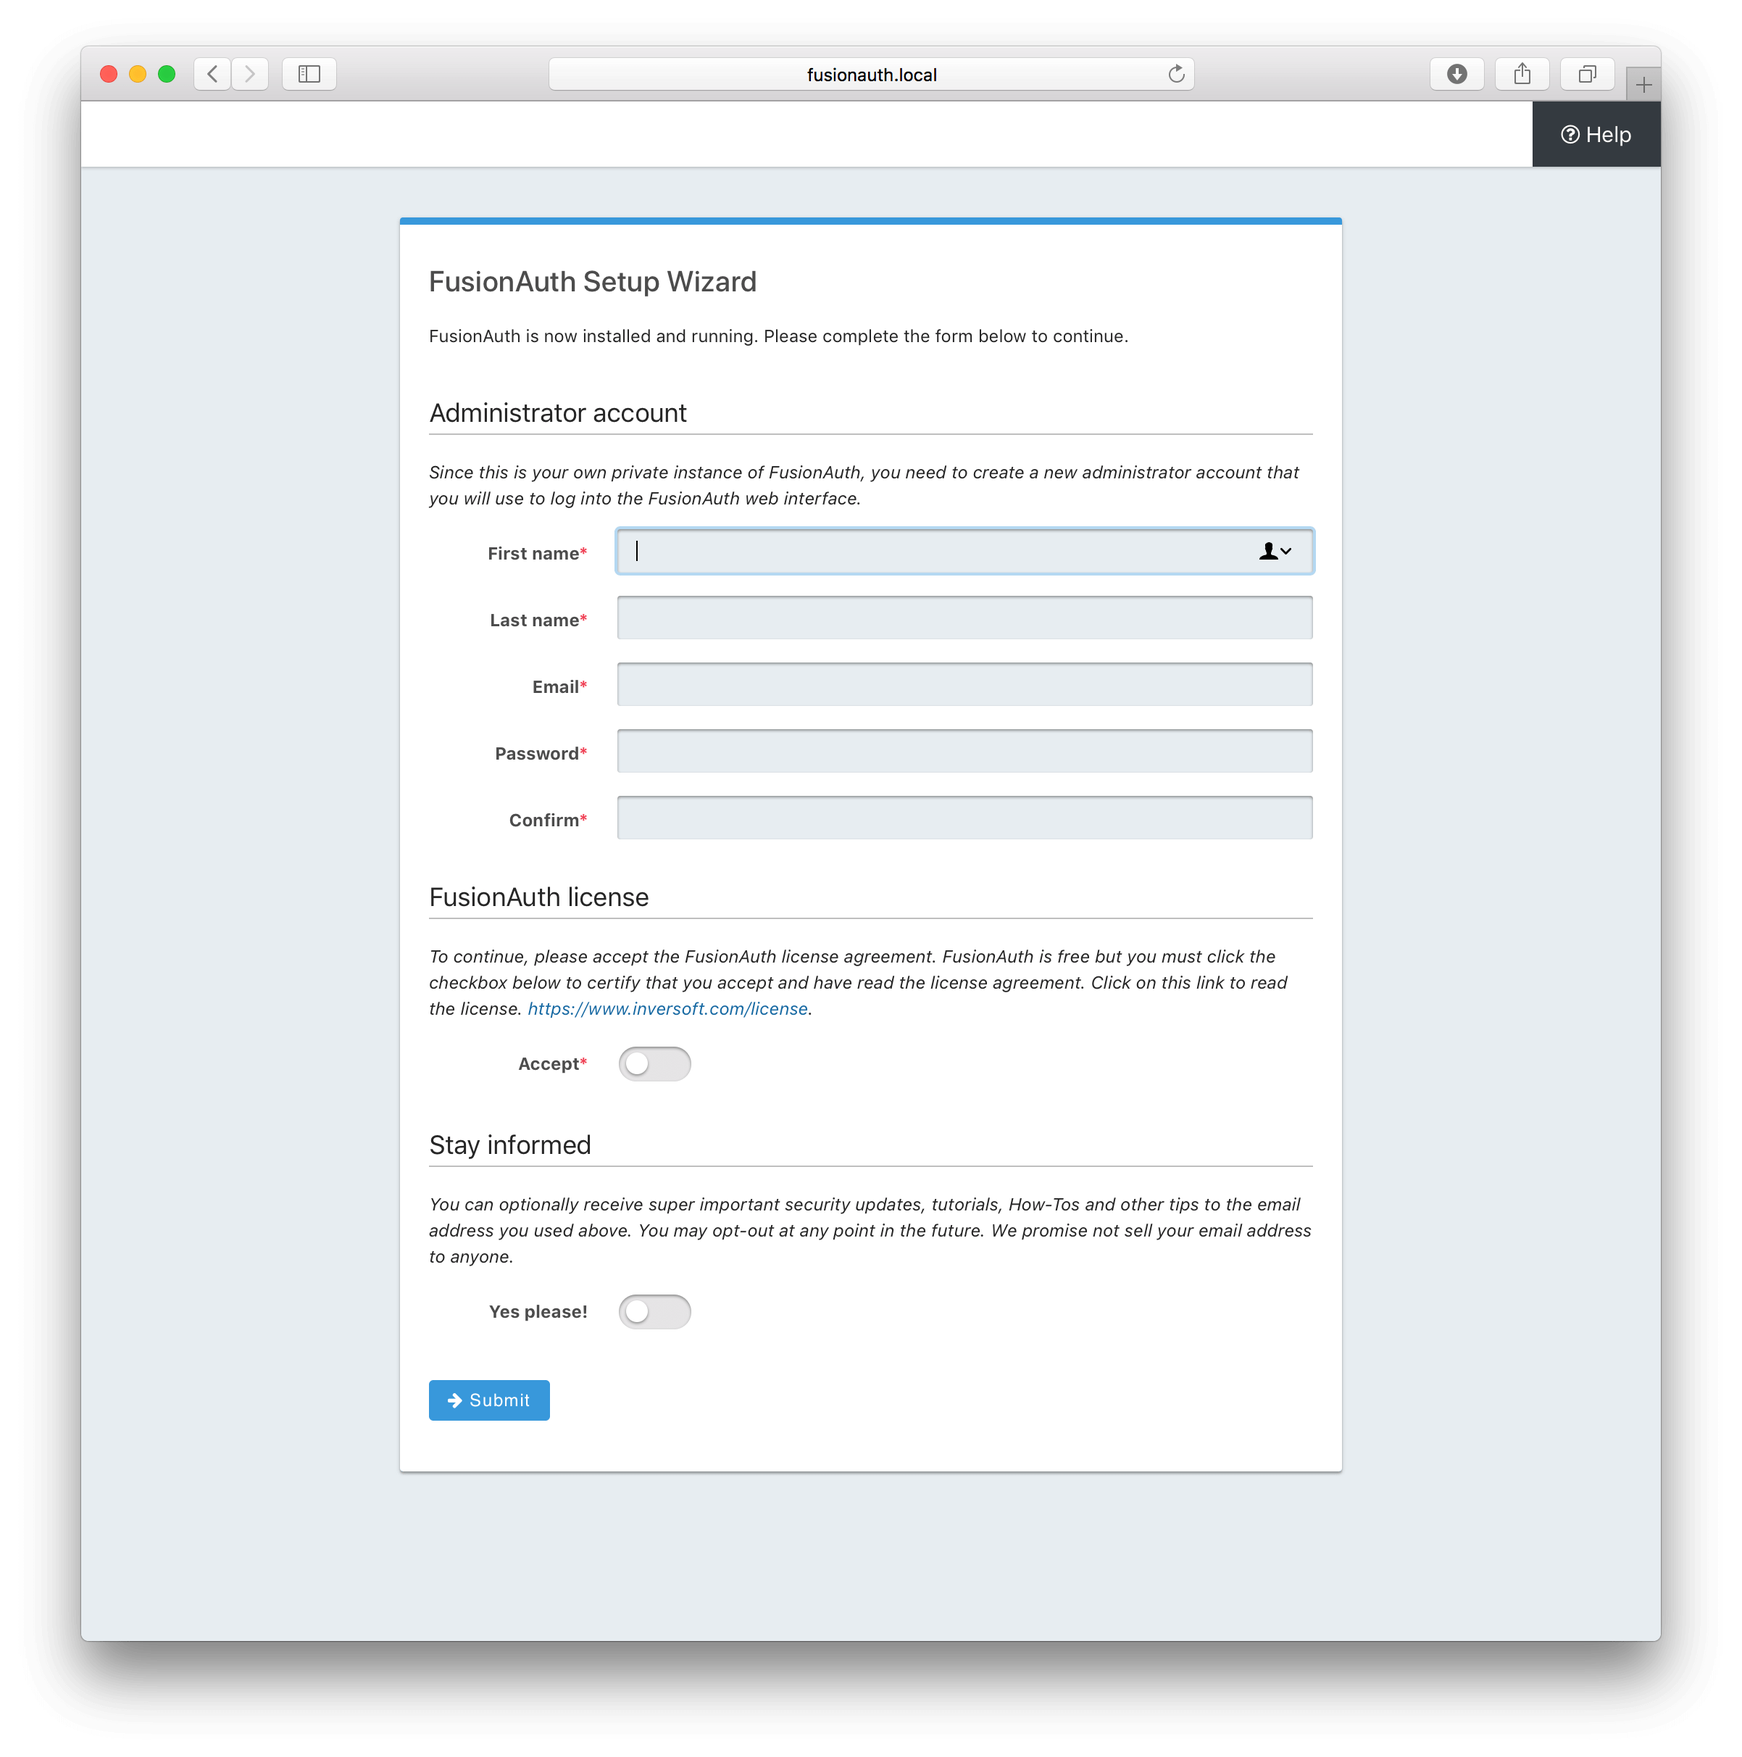
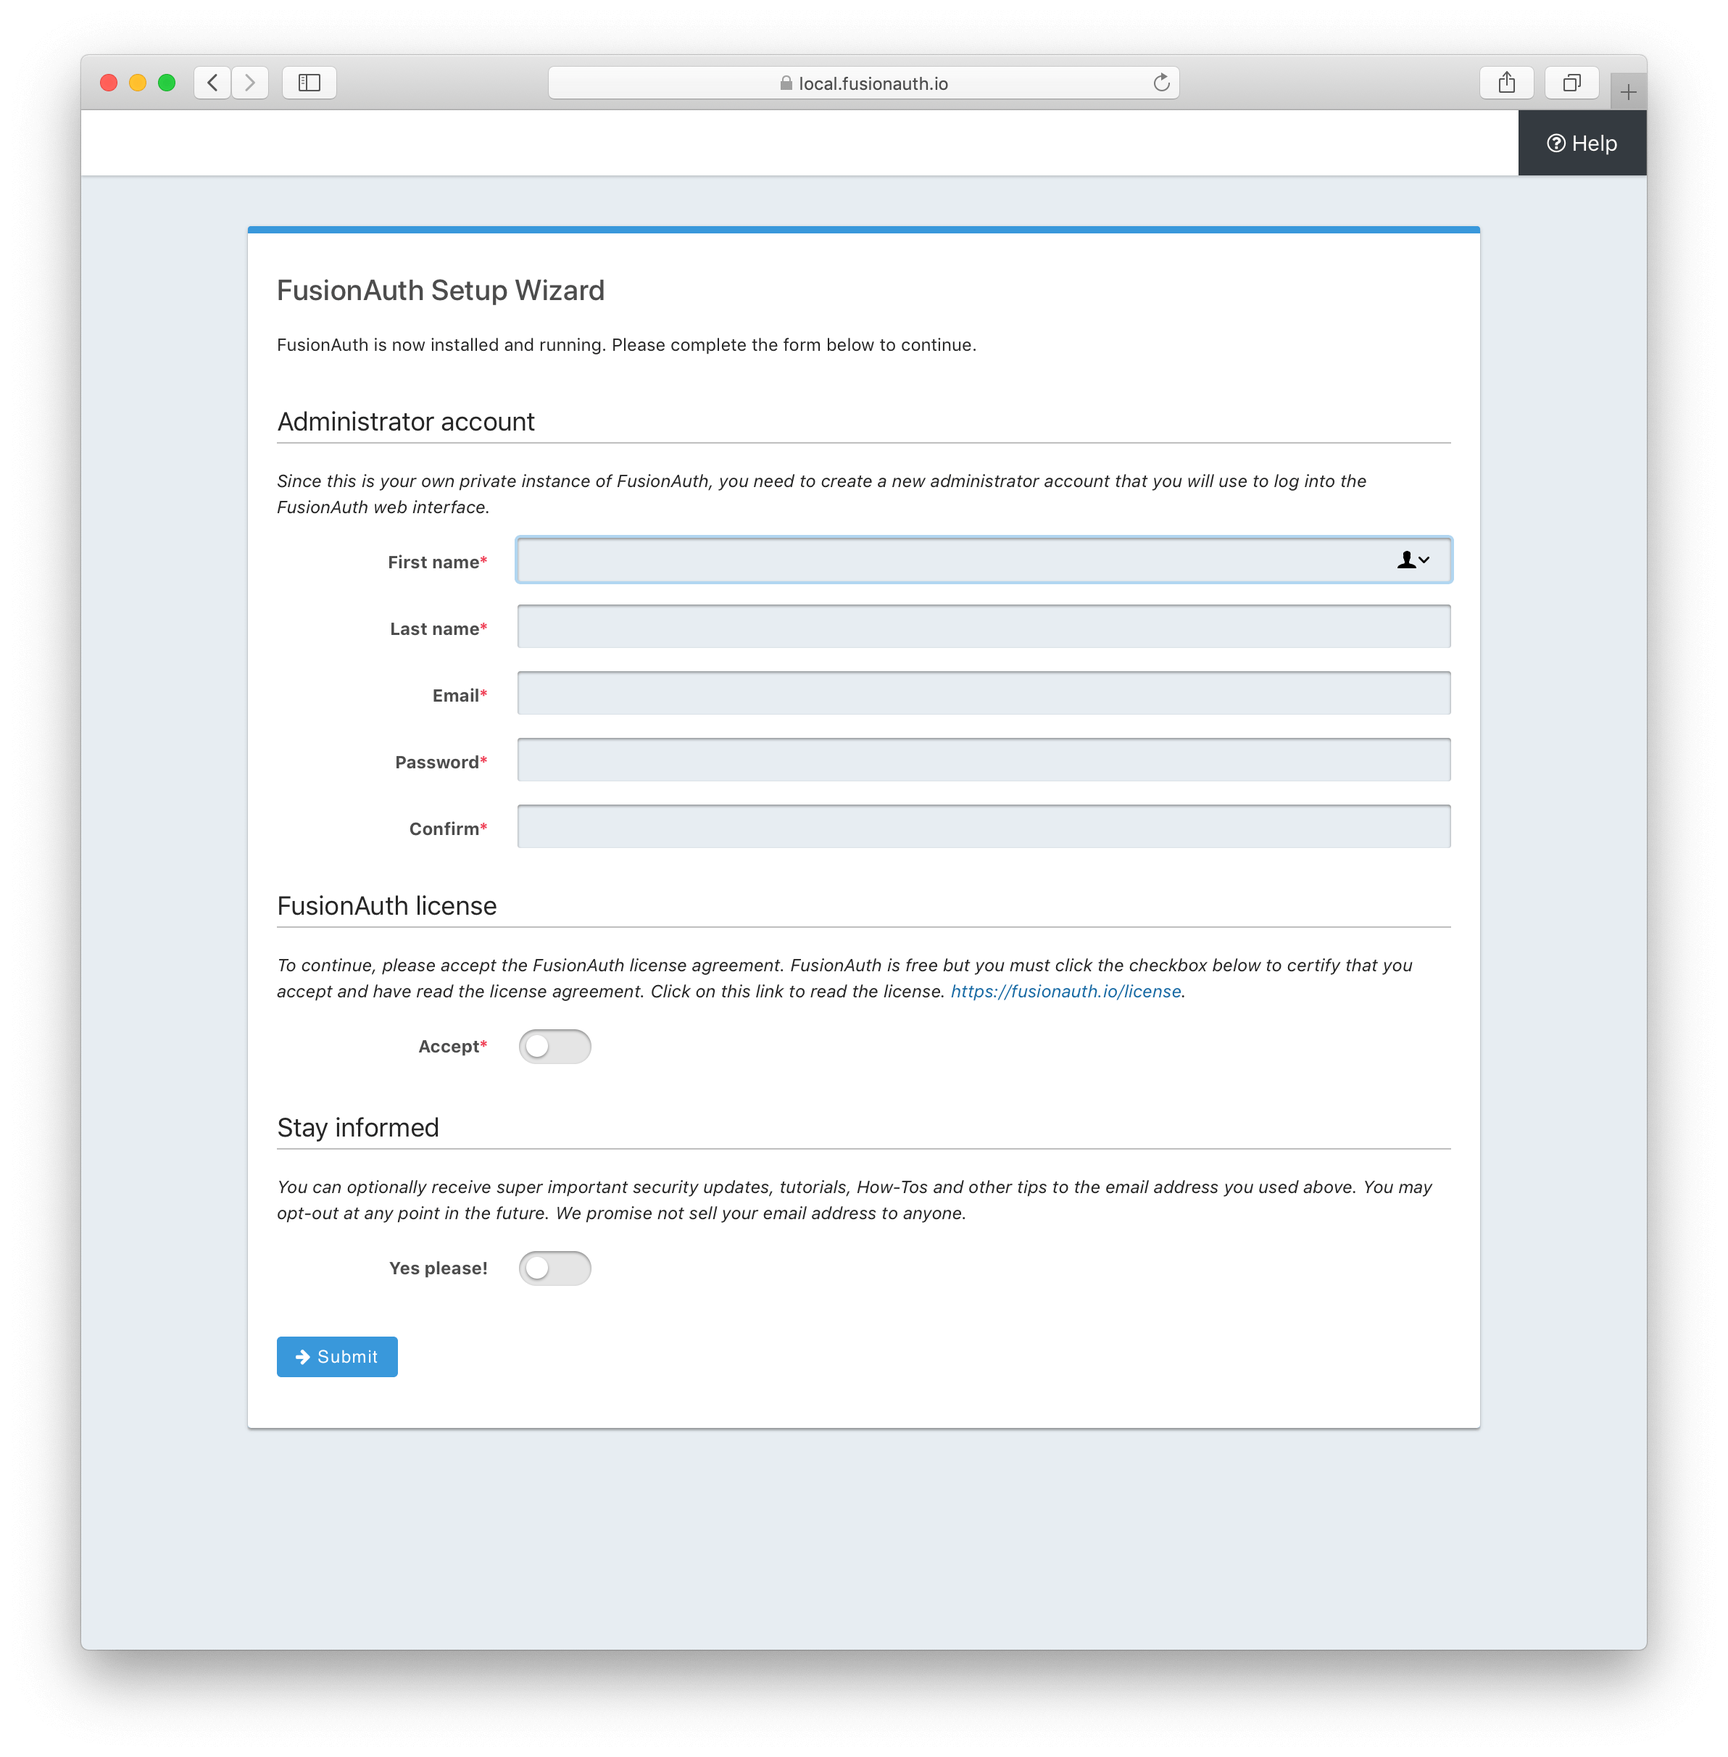
Update using-the-setup-wizard.md with screenshots and prepping for publish

diff --git a/assets/css/site-local.scss b/assets/css/site-local.scss
@@ -61,6 +61,10 @@ blockquote {
 }
 
 .blog-post .post-body-content {
+  img.full {
+    max-width: inherit;
+  }
+
   ol, ul {
     margin-bottom: 30px;
   }

diff --git a/_drafts/using-the-setup-wizard.md b/_drafts/using-the-setup-wizard.md
@@ -10,7 +10,7 @@ tags:
 - FusionAuth
 - tutorial
 - video
-image: blogs/NEEDIMAGE
+image: blogs/setup-wizard-create-admin.png
 ---
 The FusionAuth Setup Wizard is designed to make setting up FusionAuth a simple process so you can get back to working on the core features of your application. The step-by-step process only takes a few minutes to prepare FusionAuth to integrate with your application. The basic steps are:
 - Creating the initial admin user
@@ -20,45 +20,53 @@ The FusionAuth Setup Wizard is designed to make setting up FusionAuth a simple p
 
 Once these are complete, you are able to call the API and start managing users.
 <!--more-->
-To use the FusionAuth Setup Wizard, you will need to access the FusionAuth backend. If FusionAuth is hosting your instance in our private cloud, the URL will be located on your [FusionAuth Account](/account "Account page") labeled **Web Interface**. If you have installed FusionAuth on your own system, you will need to know the IP address or hostname where it has been installed. For example, to access FusionAuth on localhost, you would use the following URL **http://localhost:9011**.
+To use the FusionAuth Setup Wizard, you will need to access the FusionAuth backend. If FusionAuth is hosting your instance in our private cloud, the URL will been provided to you already. If you have installed FusionAuth on your own system, you will need to know the IP address or hostname where it has been installed. For example, to access FusionAuth on localhost, you would use the following URL `http://localhost:9011`.
 
 ## The FusionAuth Setup Wizard: Create an Admin User
 
-On the FusionAuth Setup Wizard first screen, you will be prompted to create the first admin user for the FusionAuth Application. If needed, you can add more admin users to other applications later.
+In order to complete the FusionAuth Setup Wizard, you will be prompted to create the first admin user for the FusionAuth Application. If needed, you can add additional admin users at a later time.
 
-**NEED IMAGE The FusionAuth Setup Wizard - Admin Account**
+If you instead are being prompted by the FusionAuth Maintenance Mode, please complete that setup first and then return to this step. See the Maintenance Mode section in the [FusionAuth App Installation Guide](/docs/v1/tech/installation-guide/fusionauth-app/).
 
-The fields that are required are marked with a red asterisk. Type in an email and password that will be used to log in to the FusionAuth management interface. The password must be at least 8 characters in length to pass validation. The selected time zone will be used to display date and times in your local time and may be selected each time you log into FusionAuth. Click the Submit button when you have completed the form.  When complete, you will return to the Dashboard and will see the three remaining items to be configured.
+{% include _image.html src="/assets/img/blogs/setup-wizard-create-admin.png" alt="Create Admin User" class="full" figure=false %}
 
-## Create an Application
+The fields that are required are marked with a red asterisk. Type in an email and password that will be used to log into the FusionAuth management interface. The password must be at least 8 characters in length to pass validation. Before you click the Submit button you must accept the FusionAuth license, do so by clicking on the toggle .  You may optionally opt-in to receive FusionAuth technical announcements. Click submit to complete this form and you will be logged into FusionAuth and be shown the Dashboard which will contain the three remaining items to be configured.
 
-The next step is to create an application. Select the blue Setup button to begin your first application and proceed to the Add Application form.
+{% include _image.html src="/assets/img/blogs/setup-complete-dashboard.png" alt="Complete Setup Dashboard" class="full" figure=false %}
 
-**NEED IMAGE The FusionAuth Setup Wizard - Add Application**
+## Add Application
 
-A FusionAuth Application represents an authenticated resource. Think of it as something that users will log in to. Required fields are marked with a red asterisk. Start by giving your application a name in the name field. We suggest that in most cases you use the name of your application. Next, you will create roles to represent authority levels in your application. If you're integrating FusionAuth into an existing application, you probably already know what your roles are, such as "admin", "user", or "manager". To add additional roles, click on the Add Role button and enter the name of the role. A description is not required but can be used to let others know what the role represents. If you are not sure at this stage, it is easy to add and modify existing roles after the Application has been created. Click the blue save button when you have completed the form.
+The next step is to add an application. Select the blue Setup button to begin your first application and proceed to the Add Application form.
 
-## Create an API Key
+{% include _image.html src="/assets/img/blogs/setup-create-application.png" alt="Add Application" class="full" figure=false %}
 
-The next step is to create an API key so you may begin your integration and make authenticated API requests. Select the blue Add button in the Missing API Key box to continue to the Add API Key page.
+A FusionAuth Application represents an authenticated resource. Think of it as something that users will log into. Required fields are marked with a red asterisk. Start by giving your application a name in the name field. We suggest that in most cases you use the name of your application. Next, you will create roles to represent authority levels in your application. If you're integrating FusionAuth into an existing application, you probably already know what your roles are, such as "admin", "user", or "manager". To add additional roles, click on the Add Role button and enter the name of the role. A description is not required but can be used to let others know what the role represents. If you are not sure at this stage, it is easy to add and modify existing roles after the Application has been created. Click the blue save button when you have completed the form.
 
-**NEED IMAGE The FusionAuth Setup Wizard - API Key**
+To return the dashboard select Dashboard from the menu on the left.
+
+## Add API Key
+
+The next step is to add an API key so you may begin your integration and make authenticated API requests. Select the blue Add button in the Missing API Key box to continue to the Add API Key page.
+
+{% include _image.html src="/assets/img/blogs/setup-create-api-key.png" alt="Add API Key" class="full" figure=false %}
 
 As before, required fields are marked with a red asterisk. You will notice that FusionAuth has already created a unique API Key and pre-filled the Key field. You may use this generated key, or you can change it to something else if you prefer. For more effective and robust security, API keys should be long and difficult to guess. If you are going to create your own API key, be thoughtful about what you choose–once an API has been created, the key value cannot be changed. Again, the description is optional but is helpful to document the purpose or intended use of this API key.
 
-If you do not provide any additional configuration, the API Key will have access to all authenticated APIs. FusionAuth gives you the option to control the use of each key by selecting specific endpoints and HTTP Methods this key will be allowed to access. You may click on a column, row or individual HTTP Method to toggle access to each unique endpoint. Click the blue save button when you have completed the form. To get back to the final step of the FusionAuth Setup Wizard, select Dashboard from the menu on the left.
+If you do not provide any additional configuration, the API Key will have access to all authenticated APIs. FusionAuth gives you the option to control the use of each key by selecting specific endpoints and HTTP Methods this key will be allowed to access. You may click on a column, row or individual HTTP Method to toggle access to each unique endpoint. Click the blue save button when you have completed the form. 
+
+To return the dashboard select Dashboard from the menu on the left.
 
 ## SMTP Server Configuration
 
 The final item to complete is the SMTP server configuration. This step is not required to use FusionAuth, but is recommended since without it FusionAuth will be unable to send email. This means features such as Setup Password and Forgot Password will not function. Click the blue Setup button in the Email Setting box and you will see the System Settings page.
 
-**NEED IMAGE The FusionAuth Setup Wizard - SMTP Configuration**
+{% include _image.html src="/assets/img/blogs/setup-smtp-server-config.png" alt="SMTP Configuration" class="full" figure=false %}
 
-The Email tab should already be selected. Start by toggling the Email settings "enabled" button and the SMTP server configuration will become visible. As always, required fields are marked with a red asterisk. Enter your host, port, username, and password. You may also select SSL or TLS security. Click the blue save button when you have completed the form and select Dashboard from the menu on the left.
+The Email tab should already be selected. Start by toggling the Email settings "Enabled" button and the SMTP server configuration will become visible. As always, required fields are marked with a red asterisk. Complete the form by entering the SMTP host, port and username and password credentials if required. Generally these details will be provided by your SMTP service provider or IT department. Click the blue save button when you have completed the form and select Dashboard from the menu on the left.
 
-Your dashboard no longer shows the Complete FusionAuth setup panel. Setup is complete and you are ready to start your FusionAuth integration!
+If the dashboard no longer shows the Complete setup panel. Setup is complete and you are ready to start your FusionAuth integration!
 
-For more details on how to use the FusionAuth Setup Wizard or any other functions, please read the complete [FusionAuth documentation here](/docs/1.x/tech/tutorials/setup-wizard "Jump to the FusionAuth Docs").
+For more details on how to use the FusionAuth Setup Wizard or any other functions, please read the complete [FusionAuth documentation here](/docs/v1/tech/tutorials/setup-wizard "Jump to the FusionAuth Docs").
 
 ## Learn More About FusionAuth
 

diff --git a/_posts/2018-10-24-easy-integration-of-fusionauth-and-spring.md b/_posts/2018-10-24-easy-integration-of-fusionauth-and-spring.md
@@ -56,7 +56,7 @@ Getting everything setup
 
     1. A user clicks on a login link `<a href="/login">Login</a>`
     2. Spring handles the `/login` request by initiating an OAuth2 redirect to the `authorize` endpoint (https://fusionauth.io/docs/v1/tech/oauth/endpoints#authorize) on the FusionAuth instance.
-    3. The user logs in to the FusionAuth instance and gets redirected back to your application with an authentication code. In our example they will get redirected back to `/login` and login will detect the code to proceed to the next step.
+    3. The user logs into the FusionAuth instance and gets redirected back to your application with an authentication code. In our example they will get redirected back to `/login` and login will detect the code to proceed to the next step.
     4. Next, Spring exchanges the auth code for an access token by calling the FusionAuth `token` endpoint (https://fusionauth.io/docs/v1/tech/oauth/endpoints#token). FusionAuth returns an id token, which is a JWT. While we could use the JWT directly or hand it to Spring Security to validate the signature and use the data inside the JWT, our example is instead going to use a different OpenID Connect integration.
     5. Finally, our filter takes over and we call the `userinfo` endpoint (https://fusionauth.io/docs/v1/tech/oauth/endpoints#userinfo) to exchange the access token (JWT) for a User object. The User object that the `userinfo` endpoint returns is a valid OpenID Connect User object. We load this information into an instance of the `io.fusionauth.security.FusionAuthUserDetails` object from our library, which is the class that powers the `@PreAuthorize` annotation methods. This is accessible via `SpringContextHolder.getContext().getAuthentication().getPrincipal()`. Note that a lot of this is happening automatically for you and you don't need to specifically write code to manage the OAuth workflow.
 

diff --git a/resources/guide-to-user-data-security.md b/resources/guide-to-user-data-security.md
@@ -267,7 +267,7 @@ You can logout of this terminal by typing `exit` or hitting `ctrl-d`.
 
 ### 3.7. Locking Remote Access {#locking-remote-access}
 
-Remote access is always through SSH on Linux servers. In most cases, SSH is setup to allow access to user accounts via passwords. By allowing users to log in to your server using their passwords, you allow hackers to brute force attack your server from anywhere in the world. Instead, your servers should use RSA keys to allow users to login. This will only allow users to access the server from the computer that contains their private key. Since private keys will be password locked and never shared, this will ensure that only authorized users will be able to access the server.
+Remote access is always through SSH on Linux servers. In most cases, SSH is setup to allow access to user accounts via passwords. By allowing users to log into your server using their passwords, you allow hackers to brute force attack your server from anywhere in the world. Instead, your servers should use RSA keys to allow users to login. This will only allow users to access the server from the computer that contains their private key. Since private keys will be password locked and never shared, this will ensure that only authorized users will be able to access the server.
 
 To secure remote access to your servers, we will change the server configuration so that SSH access requires RSA keys. If you are running in Amazon, they will require an RSA public key in order to provision a server (such as an EC2 instance). However, this doesn't prevent someone from changing the configuration of the server to allow passwords, or from using an AMI (the images used to create EC2 instances) that allows password based login. Your best bet is to apply this configuration regardless of the hosting provider you are using.
 

diff --git a/_drafts/storing-user-data.md b/_drafts/storing-user-data.md
@@ -42,7 +42,7 @@ That’s the URL for the sandbox API endpoint. This config change tells the app 
 
 ## Configure the Backend
 
-We also need to add an API key for our app, or verify that one is already setup. Log in to the <a href="http://localhost:9011/login?loginId=admin@fusionauth.io" >sandbox backend UI</a>, using the following credentials:
+We also need to add an API key for our app, or verify that one is already setup. Log into the <a href="http://localhost:9011/login?loginId=admin@fusionauth.io" >sandbox backend UI</a>, using the following credentials:
 
 ```
 username: admin@fusionauth.io
@@ -88,7 +88,7 @@ Unable to retrieve JWT Public Key. Status code from FusionAuth was [undefined]. 
 ```
 
 If you see this message, you need to do one more bit of configuration:
-- Log in to the FusionAuth sandbox.
+- Log into the FusionAuth sandbox.
 - Go to **Settings → Application** and locate the application named “Example Application” with the Id “4ed5eb32-0a97-40eb-a6d7-cca1f9fa3a0c”.
 - Click the **Edit** button in the **Action** column.
 - In the **Options** section, click the **JWT** tab.
